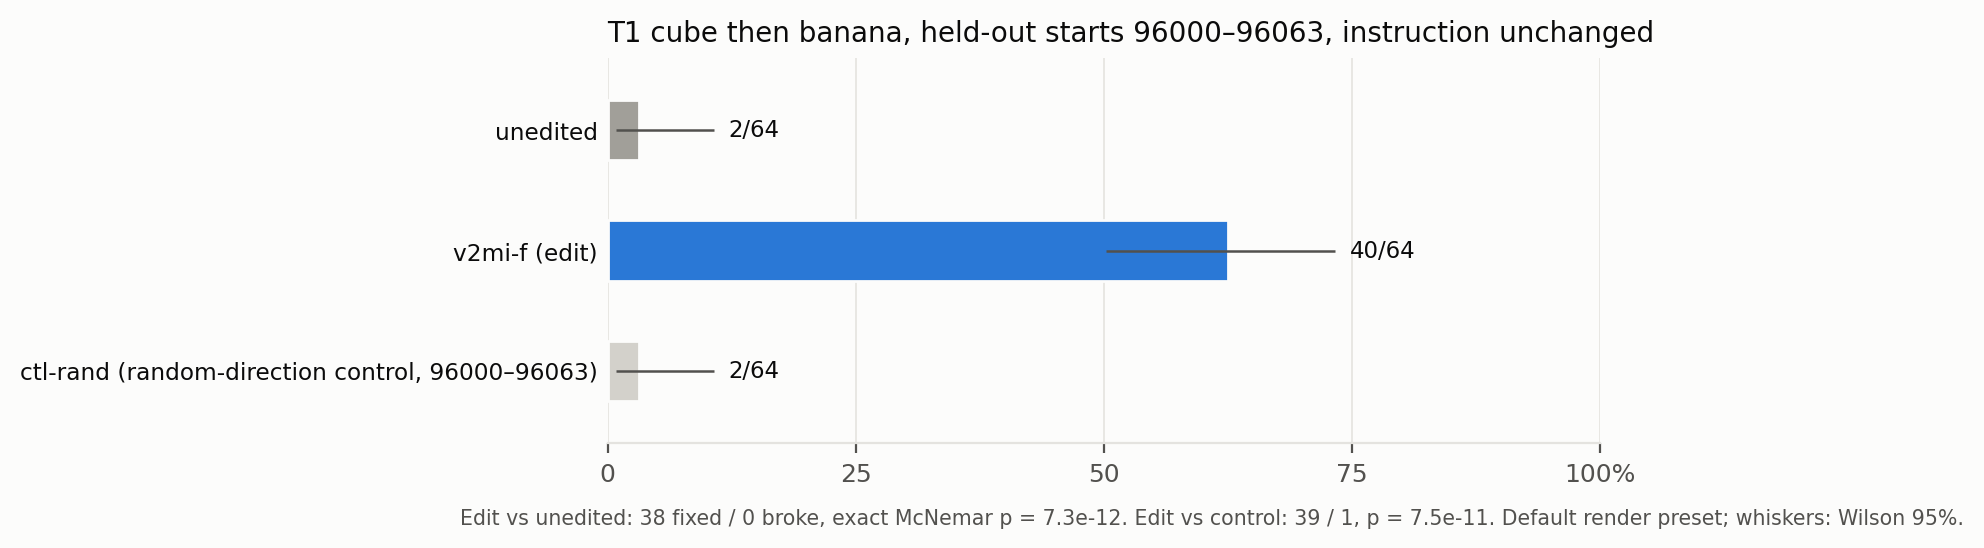
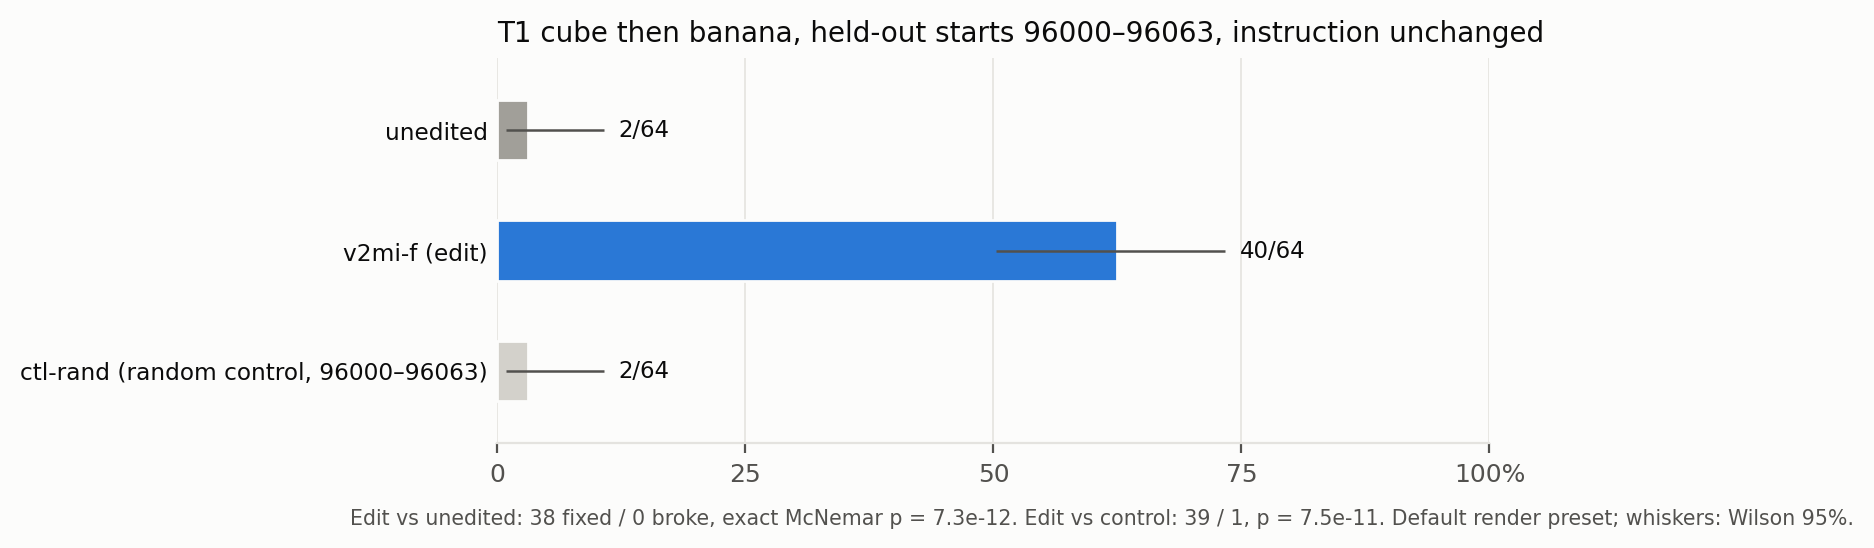
Track C': T8 edit s4r-grp3 first on both lanes (coordinator 00:25 UTC): queues, metrics and plots for a second held-out edit target

diff --git a/study/results/cross/pi05/scripts/fresh.py b/study/results/cross/pi05/scripts/fresh.py
@@ -144,6 +144,8 @@ def bs_ci(b):
 def fmt_p(p):
     if p is None:
         return "–"
+    if p >= 0.995:
+        return "1"
     if p >= 0.001:
         return f"{p:.2g}" if p < 0.1 else f"{p:.2f}"
     m, e = f"{p:.1e}".split("e")
@@ -180,26 +182,36 @@ def readme_block(out, summary):
     et = [r for r in out if r["experiment"] == "edit_target"]
     for r in et:
         d = r["ci"]["paired_diff_bootstrap95_pts"]
-        L += ["**T1 held-out: the distilled edit `v2mi-f` (instruction unchanged)**", "",
+        en = r["edit"]["name"]
+        what = {"T1": "the distilled edit `v2mi-f` (the paper's T1 edit)",
+                "T8": "π0.5's own T8 edit `s4r-grp3` (the sgdw study's target-first wording distilled into the "
+                      "reference-first one)"}[r["code"]]
+        L += [f"**{r['code']} held-out: {what}; instruction unchanged (the task's default)**", "",
               "| Arm | Success | Paired |", "|---|---|---|",
               f"| unedited | {r['unedited_k']}/{r['n']} | |",
-              f"| **`v2mi-f`** | **{r['edited_k']}/{r['n']}** | vs unedited: {r['fixed']} fixed / {r['broke']} broke, "
+              f"| **`{en}`** | **{r['edited_k']}/{r['n']}** | vs unedited: {r['fixed']} fixed / {r['broke']} broke, "
               f"p = {fmt_p(r['p'])}; difference {d[0]:+.1f} to {d[1]:+.1f} pts |"]
         c = r.get("control")
         if c:
-            L.append(f"| random-direction control `ctl-rand` | {c['k']}/{c['n']} | vs unedited "
+            L.append(f"| random-direction control `{c['name']}` | {c['k']}/{c['n']} | vs unedited "
                      f"({c['unedited_k_same_slots']}/{c['n']}): {c['vs_unedited']['fixed']} fixed / "
                      f"{c['vs_unedited']['broke']} broke, p = {fmt_p(c['vs_unedited']['p'])}; edit vs control: "
                      f"{c['edit_vs_control']['edit_only']} edit-only / {c['edit_vs_control']['control_only']} "
                      f"control-only, p = {fmt_p(c['edit_vs_control']['p'])} |")
         t = r.get("teacher")
         if t:
-            L.append(f"| unedited, explicit wording (teacher) | {t['k']}/{t['n']} | recovery "
-                     f"{r['recovery_pct']}% |")
+            L.append(f"| unedited, {'explicit' if r['code'] == 'T1' else 'target-first'} wording (teacher) | "
+                     f"{t['k']}/{t['n']} | vs unedited ({t['unedited_k_same_slots']}/{t['n']}): "
+                     f"{t['vs_unedited']['fixed']} / {t['vs_unedited']['broke']}, p = {fmt_p(t['vs_unedited']['p'])}; "
+                     f"vs edit ({t['edited_k_same_slots']}/{t['n']}): {t['vs_edit']['fixed']} teacher-only / "
+                     f"{t['vs_edit']['broke']} edit-only, p = {fmt_p(t['vs_edit']['p'])}; recovery "
+                     f"**{r['recovery_pct']}%** of the teacher's gain |")
         L += ["", f"Slots {r['slots'][0]}–{r['slots'][1]} (held-out, never used for any choice)"
-              + (f"; control on {c['slots'][0]}–{c['slots'][1]}" if c else "") + ".", ""]
-        if (PI05 / "plots/fresh_t1_heldout.png").exists():
-            L += ["![Fresh T1 held-out](plots/fresh_t1_heldout.png)", ""]
+              + (f"; control on {c['slots'][0]}–{c['slots'][1]}" if c else "")
+              + (f"; teacher on {t['slots'][0]}–{t['slots'][1]}" if t else "") + ".", ""]
+        png = f"plots/fresh_{r['code'].lower()}_heldout.png"
+        if (PI05 / png).exists():
+            L += [f"![Fresh {r['code']} held-out]({png})", ""]
     se = [r for r in out if r["experiment"] == "side_effect"]
     if se:
         L += ["**Side effects of `v2mi-f`** (held-out, each task's own default instruction):", "",

diff --git a/study/results/cross/pi05/scripts/fresh_plots.py b/study/results/cross/pi05/scripts/fresh_plots.py
@@ -90,28 +90,31 @@ def main():
 
     et = [r for r in M if r["experiment"] == "edit_target"]
     for r in et:
-        arms = [("unedited", r["unedited_k"], r["n"], NEUTRAL), ("v2mi-f (edit)", r["edited_k"], r["n"], BLUE)]
+        en = r["edit"]["name"]
+        arms = [("unedited", r["unedited_k"], r["n"], NEUTRAL), (f"{en} (edit)", r["edited_k"], r["n"], BLUE)]
         c = r.get("control")
         if c:
-            arms.append((f"ctl-rand (random-direction control, {c['slots'][0]}–{c['slots'][1]})", c["k"], c["n"],
+            arms.append((f"{c['name']} (random control, {c['slots'][0]}–{c['slots'][1]})", c["k"], c["n"],
                          LIGHT))
         t = r.get("teacher")
         if t:
-            arms.append(("unedited, explicit wording (teacher)", t["k"], t["n"], MUTE))
+            arms.append((f"unedited, {'explicit' if r['code'] == 'T1' else 'target-first'} wording "
+                         f"(teacher, {t['slots'][0]}–{t['slots'][1]})", t["k"], t["n"], MUTE))
         fig, ax = plt.subplots(figsize=(6.4, 0.5 * len(arms) + 1.0))
         for i, (lab, k, n, col) in enumerate(arms):
             bar(ax, i, k, n, col, h=0.5)
         axes_common(ax, len(arms))
         ax.set_yticks(range(len(arms)))
         ax.set_yticklabels([a[0] for a in arms], fontsize=8.4)
-        ax.set_title(f"T1 cube then banana, held-out starts {r['slots'][0]}–{r['slots'][1]}, instruction unchanged",
+        name = {"T1": "T1 cube then banana", "T8": "T8 mustard right of raisin (RF wording)"}[r["code"]]
+        ax.set_title(f"{name}, held-out starts {r['slots'][0]}–{r['slots'][1]}, instruction unchanged",
                      fontsize=10, color=INK, loc="left")
         note = (f"Edit vs unedited: {r['fixed']} fixed / {r['broke']} broke, exact McNemar p = {S.format_p(r['p'])}."
                 + (f" Edit vs control: {c['edit_vs_control']['edit_only']} / {c['edit_vs_control']['control_only']}, "
                    f"p = {S.format_p(c['edit_vs_control']['p'])}." if c else "")
                 + " Default render preset; whiskers: Wilson 95%.")
         fig.text(0.01, -0.02, note, fontsize=7.4, color=INK2, va="top")
-        save(fig, "fresh_t1_heldout")
+        save(fig, f"fresh_{r['code'].lower()}_heldout")
 
     se = [r for r in M if r["experiment"] == "side_effect"]
     if se:

diff --git a/study/results/cross/pi05/README.md b/study/results/cross/pi05/README.md
@@ -97,13 +97,13 @@ Jobs finished: **37** (16 slots each, two fresh 8-env Isaac processes per group)
 
 ![Fresh failure map](plots/fresh_failure_map.png)
 
-**T1 held-out: the distilled edit `v2mi-f` (instruction unchanged)**
+**T1 held-out: the distilled edit `v2mi-f` (the paper's T1 edit); instruction unchanged (the task's default)**
 
 | Arm | Success | Paired |
 |---|---|---|
 | unedited | 2/64 | |
 | **`v2mi-f`** | **40/64** | vs unedited: 38 fixed / 0 broke, p = 7.3 × 10<sup>-12</sup>; difference +46.9 to +71.9 pts |
-| random-direction control `ctl-rand` | 2/64 | vs unedited (2/64): 2 fixed / 2 broke, p = 1.00; edit vs control: 39 edit-only / 1 control-only, p = 7.5 × 10<sup>-11</sup> |
+| random-direction control `ctl-rand` | 2/64 | vs unedited (2/64): 2 fixed / 2 broke, p = 1; edit vs control: 39 edit-only / 1 control-only, p = 7.5 × 10<sup>-11</sup> |
 
 Slots 96000–96063 (held-out, never used for any choice); control on 96000–96063.
 
@@ -114,8 +114,8 @@ Slots 96000–96063 (held-out, never used for any choice); control on 96000–96
 | Task | Unedited → edited | Fixed / broke | Exact p | Slots |
 |---|---|---|---|---|
 | T3 RubiksCubeLeftOfBowlTask | 1/32 → **6/32** | 6 / 1 | 0.12 | 96000–96031 |
-| T5 MustardInLeftBinTask | 7/32 → **6/32** | 6 / 7 | 1.00 | 96000–96031 |
-| R1 RubiksCubeTask | 31/32 → **31/32** | 0 / 0 | 1.00 | 96000–96031 |
+| T5 MustardInLeftBinTask | 7/32 → **6/32** | 6 / 7 | 1 | 96000–96031 |
+| R1 RubiksCubeTask | 31/32 → **31/32** | 0 / 0 | 1 | 96000–96031 |
 
 ![Fresh side effects](plots/fresh_side_effects.png)
 
